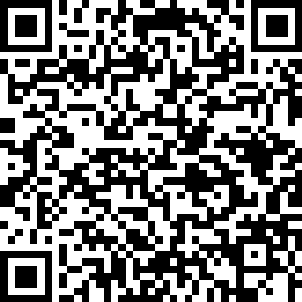
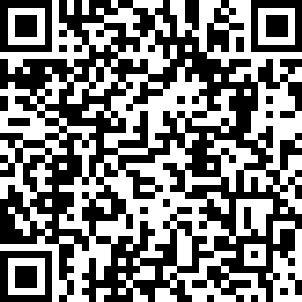
update

diff --git a/src/index.tsx b/src/index.tsx
@@ -16,7 +16,7 @@ app.get('/', (c) => {
           <h2>软件获取</h2>
           <p>安卓屏连目前仍然处于开发中的状态，最新版本的 apk 请
             <a target="_blank" href="https://qm.qq.com/cgi-bin/qm/qr?k=Plk177jevOVwOdK7DUUP2Ht3K5poa4_u&jump_from=webapi&authKey=UmNk2qswp3p+VDriWxwU99YggMG6r3zaQJMvfyjt8o42Rk544YVomyvf2L4V414a">
-            加入 QQ 群 577902537
+            加入 QQ 群 391036729
             </a>。或者在 QQ 中搜索“安卓屏连”。或者用 QQ 扫描下边的二维码</p>
             <img src="/static/qrcode-302.png" />
           <p>如果你是软件开发者，也可以从 <a href="https://gitee.com/connect-screen/connect-screen" target="_blank">https://gitee.com/connect-screen/connect-screen</a> 获取源代码自行编译</p>
@@ -169,6 +169,14 @@ app.get('/', (c) => {
         <section>
           <h2>更新日志</h2>
           <ul>
+            <li>
+            屏易连-1.4.3
+              <ul>
+                <li>moonlight 无线投屏支持 h265 编码</li>
+                <li>设置中授予了无障碍权限可自动跳过询问投屏权限弹窗</li>
+                <li>设置中授予了悬浮窗权限可显示悬浮返回按键</li>
+              </ul>
+            </li>
             <li>
             屏易连-1.4.2
               <ul>
